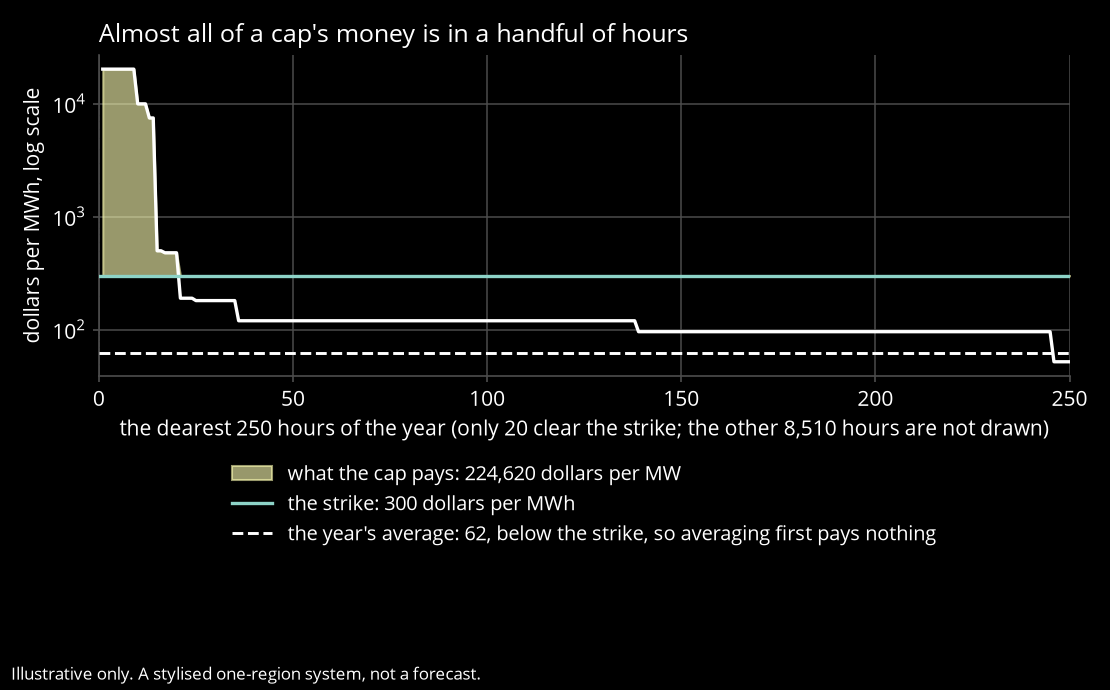
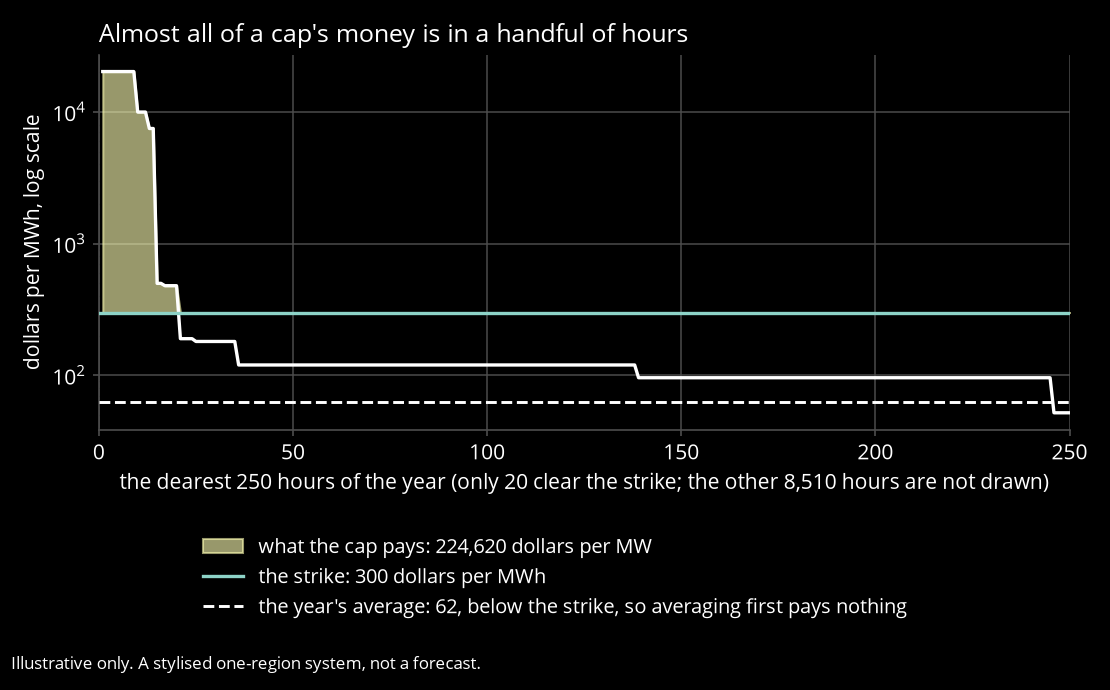
Lay every chart's foot out the same way, and name the ten-seed rows
One helper places the caption, the legend and the axes at fixed distances in
inches, so every chart carries them at the same spacing; each chart had set its
own margins and anchors, and the hesitancy chart left a wide gap between its
legend and its caption. Legends sit below the axes on every document chart. The
ten-seed figure labels its rows as draws in the order drawn rather than by seed
number, which told a reader nothing, and the pages say what a row is and how to
find the seed behind it.

diff --git a/tools/doc_figures.py b/tools/doc_figures.py
@@ -25,7 +25,7 @@ from esem_sandbox.config import load_settings  # noqa: E402
 from esem_sandbox.core.dispatch import dispatch_year  # noqa: E402
 from esem_sandbox.core.weather import generate_bundle  # noqa: E402
 from esem_sandbox import plots  # noqa: E402
-from esem_sandbox.plots import CAPTION, _style, theme, titled  # noqa: E402
+from esem_sandbox.plots import _style, finish, theme, titled  # noqa: E402
 
 OUT = "outputs/canonical"
 VARIABLE = {"wind", "solar", "rooftop"}
@@ -66,8 +66,7 @@ def reliability_curve(settings, bundle, path):
     titled(ax, "A small change in firm capacity is a large change in blackouts",
                  loc="left")
     ax.invert_xaxis()
-    fig.text(0.01, 0.015, CAPTION, fontsize=8, color=plots.INK_MUTED)
-    fig.tight_layout(rect=(0, 0.05, 1, 1))
+    finish(fig)
     fig.savefig(path, dpi=150, facecolor=plots.SURFACE)
     plt.close(fig)
     return path, list(zip(firm, unserved))
@@ -106,10 +105,7 @@ def where_a_cap_pays(settings, bundle, path):
                   f"{len(price) - show:,} hours are not drawn)")
     ax.set_ylabel("dollars per MWh, log scale")
     titled(ax, "Almost all of a cap's money is in a handful of hours", loc="left")
-    ax.legend(frameon=False, fontsize=9.5, loc="upper center",
-              bbox_to_anchor=(0.5, -0.22), ncol=1, labelcolor=plots.INK)
-    fig.text(0.01, 0.015, CAPTION, fontsize=8, color=plots.INK_MUTED)
-    fig.tight_layout(rect=(0, 0.10, 1, 1))
+    finish(fig, legend_from=ax, ncol=1)
     fig.savefig(path, dpi=150, facecolor=plots.SURFACE)
     plt.close(fig)
     return path, payout, naive, above
@@ -177,7 +173,7 @@ def the_forward_view(settings, bundle, path, tech_name="ocgt"):
     ax1.grid(False)
     for side in ("left", "bottom"):
         ax1.spines[side].set_visible(False)
-    ax1.text(0, -0.95, f"the SAME {len(cells)} possible futures, dispatched at each "
+    ax1.text(0, -0.95, f"the same {len(cells)} possible futures, dispatched at each "
              f"distance:\n{len(cells) * len(offsets)} whole years, every year of the run",
              fontsize=10, color=plots.INK_2, va="top")
     titled(ax1, "Every tick, the model prices the future by enumerating it",
@@ -200,12 +196,9 @@ def the_forward_view(settings, bundle, path, tech_name="ocgt"):
     ax2.set_xlabel("$m per megawatt per year, in each future")
     ax2.set_ylabel(f"the {len(rents)} futures, poorest first")
     ax2.set_yticks([])
-    ax2.legend(frameon=False, fontsize=9.5, loc="lower right",
-               labelcolor=plots.INK)
     titled(ax2, "A contract is worth the gap it closes", loc="left")
 
-    fig.text(0.01, 0.015, CAPTION, fontsize=8, color=plots.INK_MUTED)
-    fig.tight_layout(rect=(0, 0.06, 1, 1))
+    finish(fig, legend_from=ax2, ncol=1)
     fig.savefig(path, dpi=150, facecolor=plots.SURFACE)
     plt.close(fig)
     return path, mean, bare.certainty_equivalent_per_mw_year, \
@@ -261,11 +254,7 @@ def what_hesitancy_costs(settings, bundle, path, tech_name="ocgt"):
     ax.set_xlabel("$ thousand per megawatt per year")
     titled(ax, "What a gas peaker must earn to be built, and why",
            loc="left")
-    ax.legend(frameon=False, fontsize=9.5, loc="upper center",
-              bbox_to_anchor=(0.5, -0.16), ncol=2, labelcolor=plots.INK,
-              handletextpad=0.6, columnspacing=2.4)
-    fig.text(0.01, 0.015, CAPTION, fontsize=8, color=plots.INK_MUTED)
-    fig.tight_layout(rect=(0, 0.10, 1, 1))
+    finish(fig, legend_from=ax, ncol=2, handletextpad=0.6, columnspacing=2.4)
     fig.savefig(path, dpi=150, facecolor=plots.SURFACE)
     plt.close(fig)
     return path, fixed[0] * 1e3, min(caution) * 1e3, max(caution) * 1e3

diff --git a/src/esem_sandbox/plots.py b/src/esem_sandbox/plots.py
@@ -159,6 +159,43 @@ def _style(ax) -> None:
     ax.yaxis.label.set_fontsize(10)
 
 
+# The foot of every chart, in inches, so the spacing is the same whatever the
+# figure's size: the caption sits this far above the bottom edge, a legend this far
+# above the caption, and the axes this far above whichever of the two is higher.
+FOOT_CAPTION_IN = 0.14
+FOOT_LEGEND_GAP_IN = 0.10
+FOOT_AXES_GAP_IN = 0.16
+CAPTION_HEIGHT_IN = 0.12
+
+
+def finish(fig, legend_from=None, ncol: int = 1, **legend_kw) -> None:
+    """Lay the chart out with the caption at the foot, the legend directly above
+    it, and the axes above both, at the same distances on every chart.
+
+    ``legend_from`` is an axes, or a list of axes, whose labelled artists make the
+    legend; None draws no legend. Call it last, before saving.
+    """
+    height_in = fig.get_size_inches()[1]
+    fig.text(0.01, FOOT_CAPTION_IN / height_in, CAPTION, fontsize=8, color=INK_MUTED,
+             va="baseline")
+    top_in = FOOT_CAPTION_IN + CAPTION_HEIGHT_IN
+    axes = [] if legend_from is None else (
+        list(legend_from) if isinstance(legend_from, (list, tuple)) else [legend_from])
+    handles, labels = [], []
+    for a in axes:
+        h, l = a.get_legend_handles_labels()
+        handles += h
+        labels += l
+    if handles:
+        anchor_in = top_in + FOOT_LEGEND_GAP_IN
+        leg = fig.legend(handles, labels, loc="lower center",
+                         bbox_to_anchor=(0.5, anchor_in / height_in), frameon=False,
+                         fontsize=9.5, labelcolor=INK, ncol=ncol, **legend_kw)
+        fig.canvas.draw()
+        top_in = anchor_in + leg.get_window_extent().height / fig.dpi
+    fig.tight_layout(rect=(0, (top_in + FOOT_AXES_GAP_IN) / height_in, 1, 1))
+
+
 def titled(ax, text, **kw):
     """A title that keeps its colour.
 
@@ -196,8 +233,6 @@ def worst_week(result, window: Window, firm_capacity_mw: float, path: str) -> st
     ax.axhline(firm_capacity_mw, color=INK, lw=1.4, ls="--",
                label="firm capacity")
     ax.set_ylabel("residual demand, MW")
-    ax.legend(loc="upper center", bbox_to_anchor=(0.5, -0.02), ncol=3,
-              frameon=False, fontsize=9.5, labelcolor=INK)
     titled(ax, f"Worst window: {window.days} days from day {window.start_day}",
            loc="left")
 
@@ -205,8 +240,7 @@ def worst_week(result, window: Window, firm_capacity_mw: float, path: str) -> st
     ax2.set_yscale("symlog", linthresh=100)
     ax2.set_ylabel("price, dollars per MWh")
     ax2.set_xlabel("hour of the window")
-    fig.text(0.01, 0.01, CAPTION, fontsize=8, color=INK_MUTED)
-    fig.tight_layout(rect=(0, 0.03, 1, 1))
+    finish(fig, legend_from=ax, ncol=3)
     fig.savefig(path, dpi=140, facecolor=SURFACE)
     plt.close(fig)
     return path
@@ -231,10 +265,8 @@ def price_duration(results: dict[str, object], path: str) -> str:
     ax.set_yscale("log")
     ax.set_xlabel("per cent of hours at or above this price")
     ax.set_ylabel("price, dollars per MWh")
-    ax.legend(frameon=False, fontsize=9.5, labelcolor=INK)
     titled(ax, "Price duration, dearest tenth of the year", loc="left")
-    fig.text(0.01, 0.01, CAPTION, fontsize=8, color=INK_MUTED)
-    fig.tight_layout(rect=(0, 0.03, 1, 1))
+    finish(fig, legend_from=ax, ncol=min(3, max(1, len(results))))
     fig.savefig(path, dpi=140, facecolor=SURFACE)
     plt.close(fig)
     return path

diff --git a/tools/ten_seeds_figure.py b/tools/ten_seeds_figure.py
@@ -16,7 +16,7 @@ import matplotlib.pyplot as plt
 
 from esem_sandbox import plots
 from esem_sandbox.config import load_settings
-from esem_sandbox.plots import theme, titled
+from esem_sandbox.plots import finish, theme, titled
 
 OUT = "outputs/canonical"
 PATHS = ("low", "central", "high")
@@ -54,10 +54,12 @@ def ten_seeds_figure(data: list[dict], path: str) -> str:
     ax.scatter([r["total"] for r in data], y, marker="D", s=34, color=plots.INK,
                zorder=4, label="the two together")
     ax.axvline(0, color=plots.INK_2, lw=1.0)
+    # Rows are numbered in the order drawn; the seed behind each is in the csv,
+    # and the tool prints the mapping. A seed number tells a reader nothing.
     ax.set_yticks(y)
-    ax.set_yticklabels([r["seed"] for r in data], fontsize=9)
+    ax.set_yticklabels([f"draw {i + 1}" for i in range(n)], fontsize=9)
     lo, hi = ax.get_xlim()
-    ax.set_xlim(lo - 0.3, max(hi + 0.3, 2.2))
+    ax.set_xlim(lo - 0.3, max(hi + 0.3, 1.7))
     # The growth path each band of seeds drew: a rule between bands, and the
     # path's name at the right-hand end of the band's first row.
     for p in PATHS:
@@ -75,8 +77,7 @@ def ten_seeds_figure(data: list[dict], path: str) -> str:
     ax.set_xlabel("$bn over 20 years; positive means the scheme saved it")
     titled(ax, "What the scheme avoided and what it spent, on ten weather draws",
            fontsize=11.5)
-    ax.legend(frameon=False, fontsize=9, labelcolor=plots.INK, loc="lower left")
-    fig.tight_layout()
+    finish(fig, legend_from=ax, ncol=3)
     fig.savefig(path, dpi=150, facecolor=plots.SURFACE)
     plt.close(fig)
     return path
@@ -89,6 +90,8 @@ def main(csv_path: str = f"{OUT}/ten_seeds.csv") -> int:
         with theme(name):
             p = ten_seeds_figure(data, f"{OUT}/ten_seeds{suffix}.png")
         print(f"wrote {p}")
+    for i, r in enumerate(data):
+        print(f"  draw {i + 1:>2}: seed {r['seed']} ({r['path']} growth)")
     better = sum(r["outage"] > 0 for r in data)
     cheaper = sum(r["total"] > 0 for r in data)
     print(f"reliability better on {better} of {len(data)}, "

diff --git a/tools/arrival_figure.py b/tools/arrival_figure.py
@@ -18,7 +18,7 @@ import matplotlib.ticker
 from esem_sandbox import plots
 from esem_sandbox.config import load_settings
 from esem_sandbox.core.simulate import ESEM, MERCHANT, run
-from esem_sandbox.plots import LEG_COLOUR, LEG_LABEL, LEG_MARKER, theme, titled
+from esem_sandbox.plots import LEG_COLOUR, LEG_LABEL, LEG_MARKER, finish, theme, titled
 
 OUT = "outputs/canonical"
 SEED = 20260904
@@ -76,21 +76,19 @@ def arrival_figure(settings, legs, path: str) -> str:
                  color=plots.INK, fontsize=9, va="center")
     top.xaxis.set_major_locator(matplotlib.ticker.MultipleLocator(2))
     top.set_ylabel("firm capacity commissioned so far, GW on the table")
-    top.legend(frameon=False, fontsize=9.5, labelcolor=plots.INK, loc="upper left")
     titled(top, "Firm capacity arrives later without the scheme", fontsize=11.5)
 
     w = 0.38
     for k, leg in enumerate((MERCHANT, ESEM)):
         vals = [t.unserved_gwh for t in legs[leg].ticks]
         bottom.bar([y + (k - 0.5) * w for y in years], vals, width=w,
-                   color=LEG_COLOUR[leg], edgecolor=plots.SURFACE, linewidth=1,
-                   label=LEG_LABEL[leg])
+                   color=LEG_COLOUR[leg], edgecolor=plots.SURFACE, linewidth=1)
     bottom.set_ylabel("energy shed, GWh")
     bottom.set_xlabel("year")
     bottom.set_xlim(years[0] - 0.7, last + 2.2)
     titled(bottom, "and the years the market is short in are the ones it misses",
            fontsize=11.5)
-    fig.tight_layout()
+    finish(fig, legend_from=top, ncol=2)
     fig.savefig(path, dpi=150, facecolor=plots.SURFACE)
     plt.close(fig)
     return path

diff --git a/outputs/canonical/README.md b/outputs/canonical/README.md
@@ -47,11 +47,12 @@ knows. This seed is a high-growth one, which is the flattering end of the range.
 
 <picture>
   <source media="(prefers-color-scheme: dark)" srcset="ten_seeds_dark.png">
-  <img alt="Outage avoided and plant and fuel spent, per seed, grouped by growth path" src="ten_seeds.png">
+  <img alt="Outage avoided and plant and fuel spent, per draw, grouped by growth path" src="ten_seeds.png">
 </picture>
 
-`ten_seeds.png` is that table as a picture, one row per seed, slow growth at the
-top. `arrival.png` is the canonical pair's firm capacity as it is commissioned,
+`ten_seeds.png` is that table as a picture, one row per draw, slow growth at the
+top and the largest outage avoided first within each band; the tool prints which
+seed each row is. `arrival.png` is the canonical pair's firm capacity as it is commissioned,
 year by year, over the energy each leg shed: the scheme leg's plant arrives in the
 years the merchant leg is short in, and the merchant leg's arrives after them.
 

diff --git a/KNOWN_LIMITATIONS.md b/KNOWN_LIMITATIONS.md
@@ -788,8 +788,13 @@ four terms and subtracting it leaves fuel, fixed costs and capital together:
 
 <picture>
   <source media="(prefers-color-scheme: dark)" srcset="outputs/canonical/ten_seeds_dark.png">
-  <img alt="Outage avoided and plant and fuel spent, per seed, grouped by growth path" src="outputs/canonical/ten_seeds.png">
+  <img alt="Outage avoided and plant and fuel spent, per draw, grouped by growth path" src="outputs/canonical/ten_seeds.png">
 </picture>
+
+Each row is one seed: a paired 20-year run on one weather sequence and one growth
+path. The rows are numbered in the order drawn, slow growth first and the largest
+outage avoided first within each band; `tools/ten_seeds_figure.py` prints which
+seed each is. Positive is money the scheme saved.
 
 Which of the two is larger decides the total. On six of the seven seeds where the
 scheme avoids outage it spends more on plant and fuel than the outage was worth,

diff --git a/README.md b/README.md
@@ -155,11 +155,13 @@ on.
 
 What one weather draw shows is that draw's. Ten draws of the same comparison show
 the scheme buying reliability on seven and paying for it in real resources on most
-of them, and on three draws the market alone sheds less:
+of them, and on three draws the market alone sheds less. Each row below is one
+draw: the outage the scheme avoided, valued at the price cap, beside what it saved
+or spent on plant and fuel, and the two together:
 
 <picture>
   <source media="(prefers-color-scheme: dark)" srcset="outputs/canonical/ten_seeds_dark.png">
-  <img alt="Outage avoided and plant and fuel spent, per seed, grouped by growth path" src="outputs/canonical/ten_seeds.png">
+  <img alt="Outage avoided and plant and fuel spent, per weather draw, grouped by growth path" src="outputs/canonical/ten_seeds.png">
 </picture>
 
 A second bracket sits underneath every reliability figure here. The model paces
